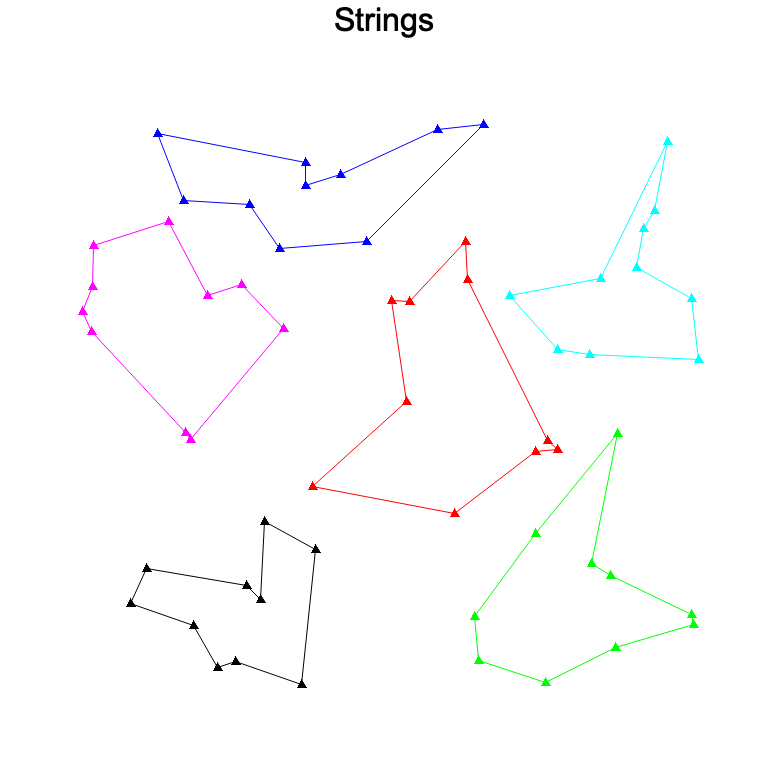
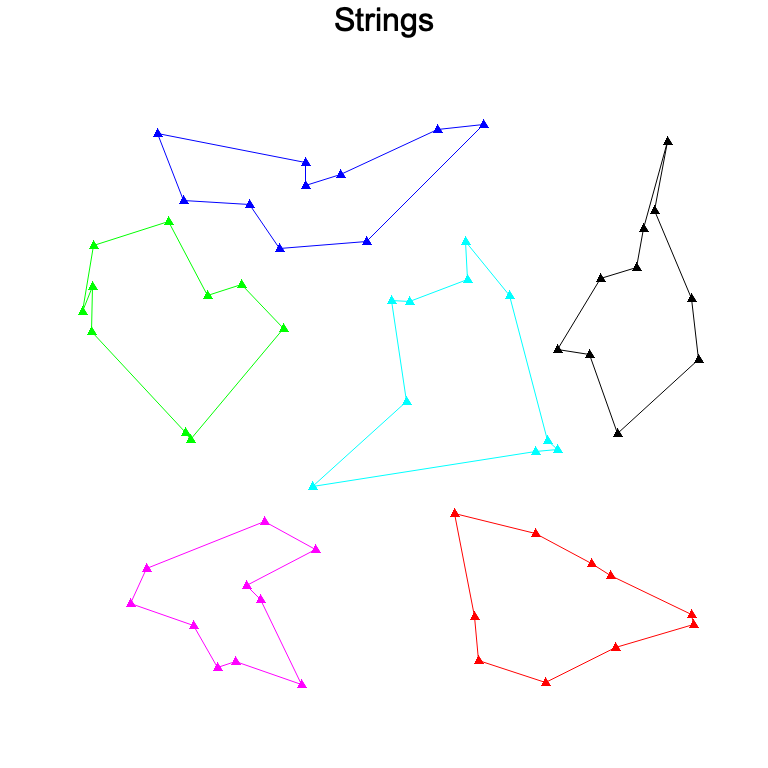
can get string order

diff --git a/src/bin/graph_strings.rs b/src/bin/graph_strings.rs
@@ -1,24 +1,30 @@
 use plotters::prelude::*;
-use salesman::*;
 
 fn main() {
     let num_points = 60;
     let seed = 42;
-    let rand_points = salesman::example::rand_points_from_chacha(num_points, seed);
+    let points = salesman::example::rand_points_from_chacha(num_points, seed);
     let salesmen_capacities = [num_points / 6; 6];
-    let points = salesman::cluster::best_cluster(&rand_points, &salesmen_capacities);
-    plot(&points, &salesmen_capacities, true, "closed_strings");
-    plot(&points, &salesmen_capacities, false, "open_strings");
+    let order = salesman::string::get_string_order(&points, &salesmen_capacities);
+    plot(
+        &points,
+        &order,
+        &salesmen_capacities,
+        true,
+        "closed_strings",
+    );
+    plot(&points, &order, &salesmen_capacities, false, "open_strings");
 }
 
 fn plot(
-    _sorted_points: &[(f32, f32)],
+    _points: &[(f32, f32)],
+    _order: &[usize],
     _salesmen_capacities: &[usize],
     is_loop: bool,
     filename: &str,
 ) {
-    // generate loop from points.
-    let sorted_points = _sorted_points.to_vec();
+    let points = _points.to_vec();
+    let order = _order.to_vec();
     let salesmen_capacities = _salesmen_capacities.to_vec();
 
     // Plot the result and save to folder images/<filename>
@@ -37,14 +43,13 @@ fn plot(
         let range_start = salesmen_capacities[0..i].iter().sum::<usize>();
         let range_end = salesmen_capacities[0..(i + 1)].iter().sum::<usize>();
         let range = range_start..range_end;
-        let filtered_points = sorted_points[range].to_vec();
+        let mut filtered_points = Vec::new();
+        for i in range {
+            filtered_points.push(points[order[i]]);
+        }
         let my_color = my_colors[i % my_colors.len()];
-
-        // run salesman algorithm on filtered_points.
-        let path_order = anneal::shortest_path_order(&filtered_points, 2, is_loop);
-        let mut shortest_path = anneal::get_path_from_order(&filtered_points, &path_order);
         if is_loop {
-            shortest_path.push(shortest_path[0]);
+            filtered_points.push(filtered_points[0]);
         }
         ctx.draw_series(
             filtered_points
@@ -56,7 +61,7 @@ fn plot(
         ctx.draw_series(
             vec![1]
                 .iter()
-                .map(|_| PathElement::new(shortest_path.clone(), my_color)),
+                .map(|_| PathElement::new(filtered_points.clone(), my_color)),
         )
         .unwrap();
     }

diff --git a/src/permute/test_permute.rs b/src/permute/test_permute.rs
@@ -1,0 +1,36 @@
+use super::*;
+
+#[test]
+fn can_permute_slice() {
+    let main_order = vec![0, 1, 2, 3, 4, 5, 6];
+    let subslice_indices = vec![1, 2, 3, 4, 5, 6];
+    assert_eq!(
+        permute_slice(&main_order, &subslice_indices, &[1, 2, 3, 4, 5, 0]),
+        vec![0, 2, 3, 4, 5, 6, 1]
+    );
+    assert_eq!(
+        permute_slice(&main_order, &subslice_indices, &[1, 0, 2, 3, 4, 5]),
+        vec![0, 2, 1, 3, 4, 5, 6]
+    );
+    assert_eq!(
+        permute_slice(&main_order, &[0, 2, 3, 4, 5, 6], &[1, 0, 2, 3, 4, 5]),
+        vec![2, 1, 0, 3, 4, 5, 6]
+    );
+}
+
+#[test]
+fn can_rotate_slice() {
+    let main_order = vec![0, 1, 2, 3, 4, 5, 6, 7, 8];
+    assert_eq!(
+        permute_slice(&main_order, &[0, 1, 2], &[1, 2, 0]),
+        vec![1, 2, 0, 3, 4, 5, 6, 7, 8]
+    );
+    assert_eq!(
+        permute_slice(&main_order, &[3, 4, 5], &[1, 2, 0]),
+        vec![0, 1, 2, 4, 5, 3, 6, 7, 8]
+    );
+    assert_eq!(
+        permute_slice(&main_order, &[6, 7, 8], &[1, 2, 0]),
+        vec![0, 1, 2, 3, 4, 5, 7, 8, 6]
+    );
+}

diff --git a/src/string.rs b/src/string.rs
@@ -1,0 +1,18 @@
+pub fn get_string_order(points: &[(f32, f32)], salesmen_capacities: &[usize]) -> Vec<usize> {
+    let mut clustered_order = crate::cluster::cluster_order(&points, &salesmen_capacities);
+    for i in 0..salesmen_capacities.len() {
+        let range_start = salesmen_capacities[0..i].iter().sum::<usize>();
+        let range_end = salesmen_capacities[0..(i + 1)].iter().sum::<usize>();
+        let mut filtered_points = Vec::new();
+        for j in range_start..range_end {
+            filtered_points.push(points[clustered_order[j]]);
+        }
+        let slice_order = crate::anneal::shortest_path_order(&filtered_points, 2, false);
+        clustered_order = crate::permute::permute_slice(
+            &clustered_order,
+            &(range_start..range_end).collect::<Vec<usize>>().to_vec(),
+            &slice_order,
+        );
+    }
+    clustered_order
+}

diff --git a/src/permute.rs b/src/permute.rs
@@ -1,0 +1,16 @@
+pub fn permute_slice(
+    main_order: &[usize],
+    subslice_indices: &[usize],
+    slice_order: &[usize],
+) -> Vec<usize> {
+    assert_eq!(subslice_indices.len(), slice_order.len());
+    assert!(subslice_indices.len() <= main_order.len());
+    let mut result = main_order.to_vec();
+    for i in 0..slice_order.len() {
+        result[subslice_indices[i]] = main_order[subslice_indices[slice_order[i]]];
+    }
+    result
+}
+
+#[cfg(test)]
+mod test_permute;

diff --git a/src/lib.rs b/src/lib.rs
@@ -3,5 +3,7 @@ pub mod block;
 pub mod cluster;
 pub mod example;
 mod intersection;
+mod permute;
+pub mod string;
 pub mod untangle;
 mod utils;
